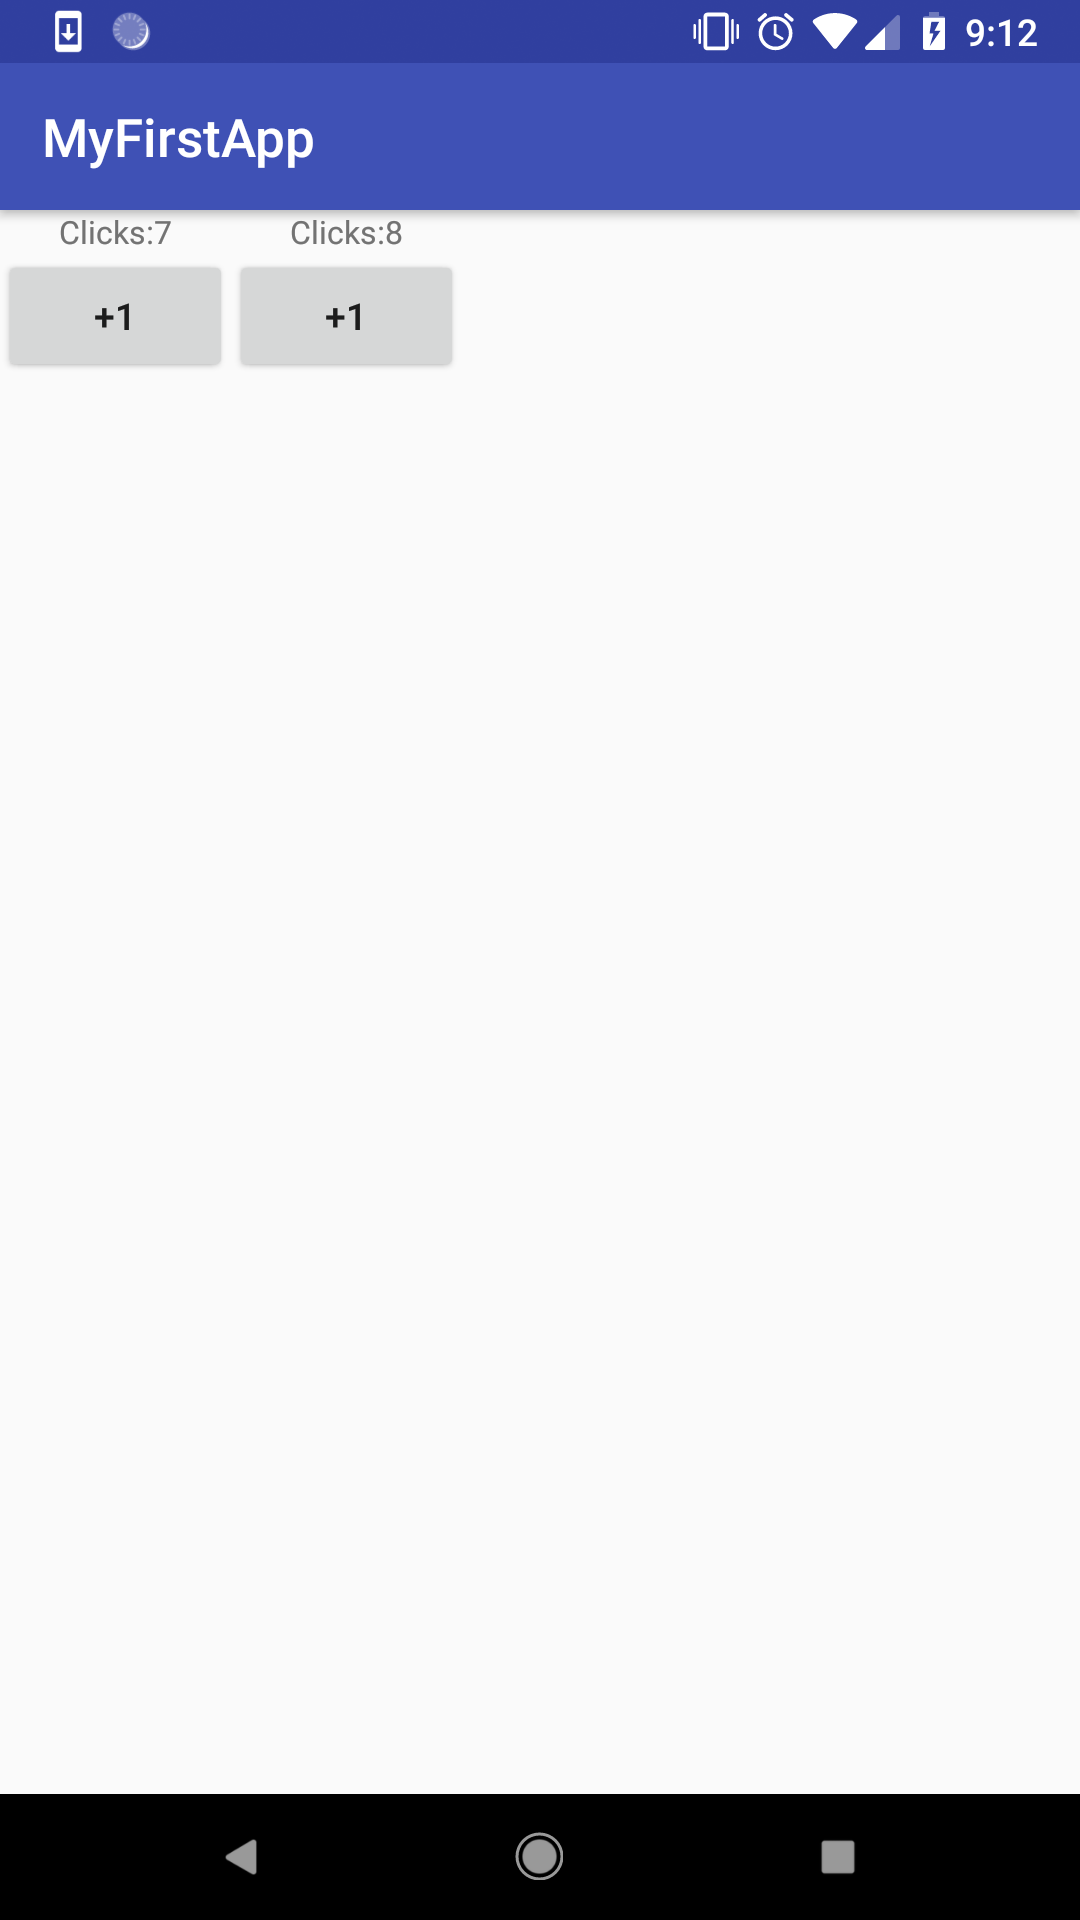
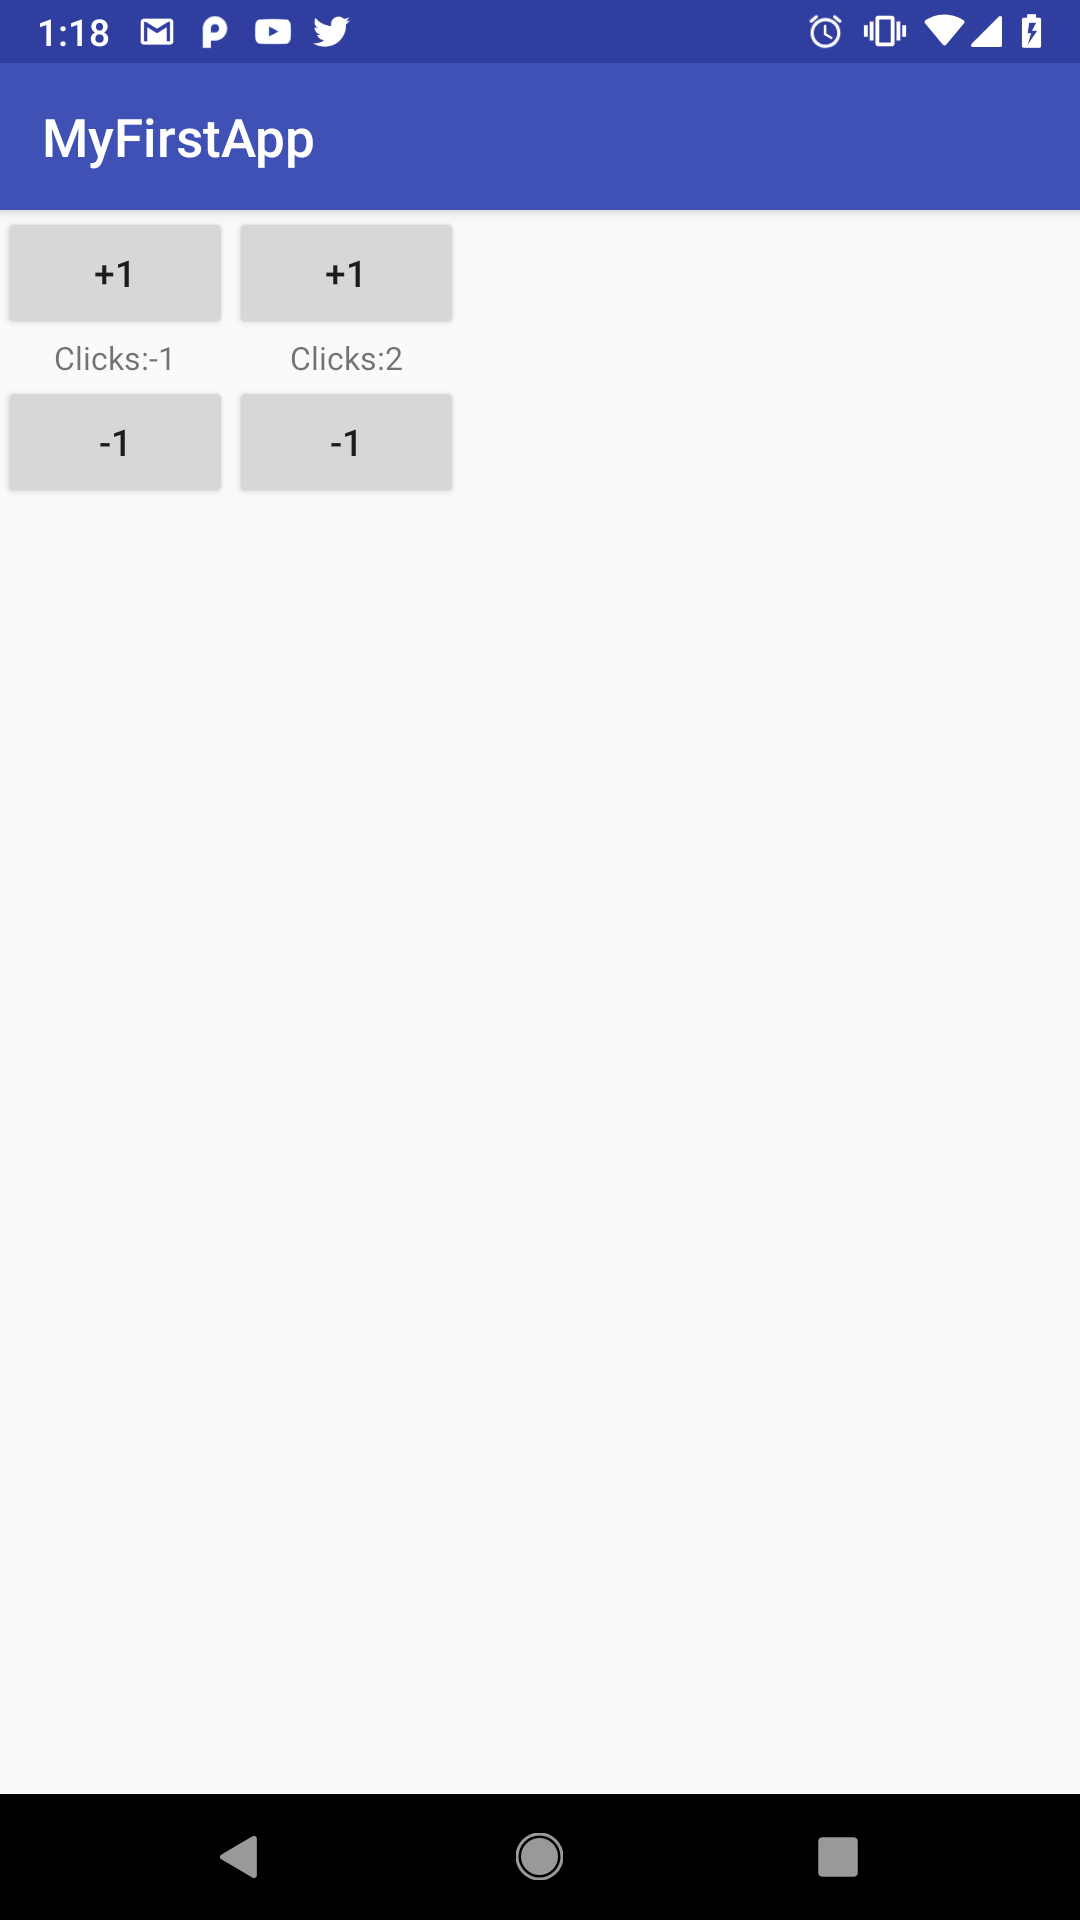
stretch goal

diff --git a/MyFirstApp/app/src/main/java/com/example/myfirstapp/MainActivity.java b/MyFirstApp/app/src/main/java/com/example/myfirstapp/MainActivity.java
@@ -12,6 +12,9 @@ public class MainActivity extends AppCompatActivity {
 
     private Button mButton1;
     private Button mButton2;
+    private Button mButton3;
+    private Button mButton4;
+
     private TextView mText1;
     private TextView mText2;
 
@@ -23,6 +26,8 @@ public class MainActivity extends AppCompatActivity {
         mButton2 = findViewById(R.id.button2);
         mText1 = findViewById(R.id.clicks1);
         mText2 = findViewById(R.id.clicks2);
+        mButton3 = findViewById(R.id.button3);
+        mButton4 = findViewById(R.id.button4);
 
         mButton1.setOnClickListener(new View.OnClickListener(){
             @Override
@@ -36,6 +41,21 @@ public class MainActivity extends AppCompatActivity {
             @Override
             public void onClick(View view) {
                 clicks2++;
+                mText2.setText("Clicks:" + clicks2);
+            }
+        });
+        mButton3.setOnClickListener(new View.OnClickListener(){
+            @Override
+            public void onClick(View view) {
+                clicks1--;
+                mText1.setText("Clicks:" + clicks1);
+            }
+        });
+
+        mButton4.setOnClickListener(new View.OnClickListener(){
+            @Override
+            public void onClick(View view) {
+                clicks2--;
                 mText2.setText("Clicks:" + clicks2);
             }
         });
